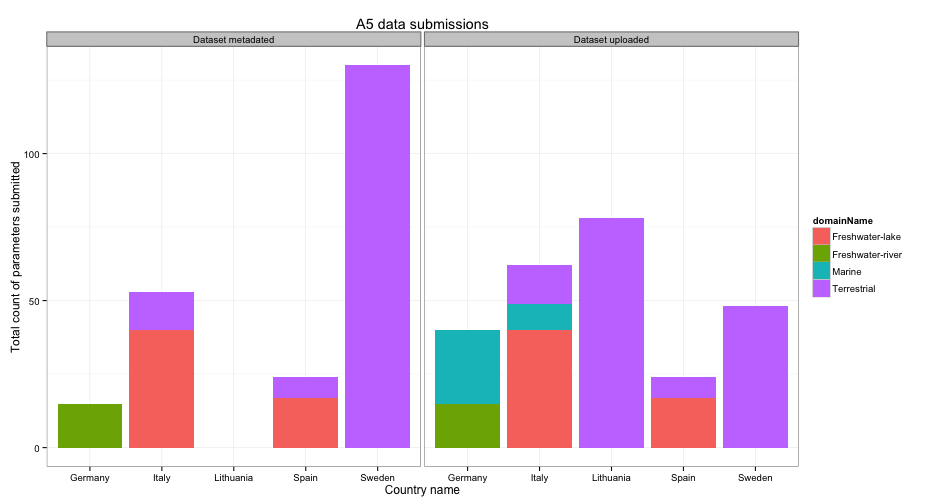
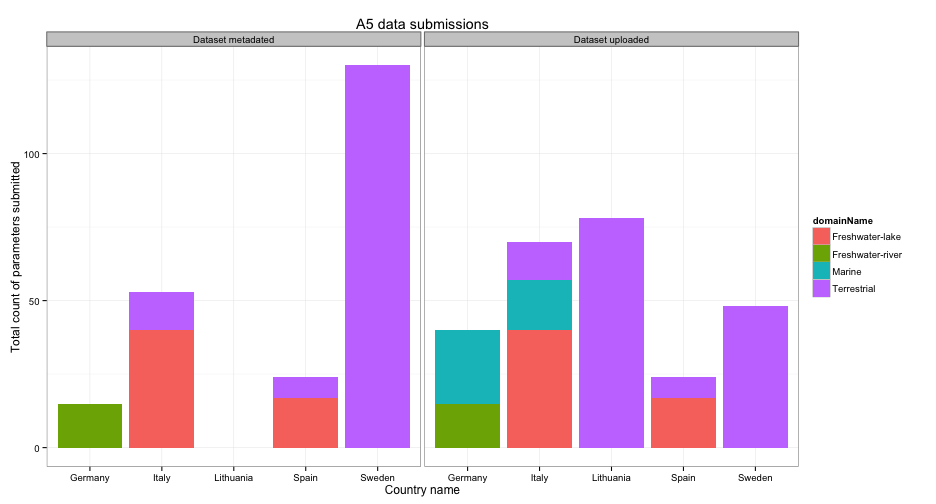
publishing deck

Changed region(s): [[0.5267, 0.4762, 0.6197, 0.625]]

diff --git a/index.html b/index.html
@@ -58,13 +58,13 @@
 
 <!-- html table generated in R 2.15.3 by xtable 1.7-0 package -->
 
-<!-- Mon Mar 11 11:10:07 2013 -->
+<!-- Mon Mar 11 13:49:17 2013 -->
 
 <TABLE border=1>
 <TR> <TH>  </TH> <TH> No. uploaded </TH> <TH> No. metadated </TH> <TH> Total no. </TH> <TH> Upload ratio </TH> <TH> Metadata ratio </TH>  </TR>
-  <TR> <TD align="right"> Year2012 </TD> <TD align="right"> 176 </TD> <TD align="right"> 174 </TD> <TD align="right"> 2025 </TD> <TD align="right"> 0.09 </TD> <TD align="right"> 0.09 </TD> </TR>
+  <TR> <TD align="right"> Year2012 </TD> <TD align="right"> 184 </TD> <TD align="right"> 174 </TD> <TD align="right"> 2025 </TD> <TD align="right"> 0.09 </TD> <TD align="right"> 0.09 </TD> </TR>
   <TR> <TD align="right"> Year2011 </TD> <TD align="right">  76 </TD> <TD align="right">  48 </TD> <TD align="right"> 265 </TD> <TD align="right"> 0.29 </TD> <TD align="right"> 0.18 </TD> </TR>
-  <TR> <TD align="right"> Sum </TD> <TD align="right"> 252 </TD> <TD align="right"> 222 </TD> <TD align="right"> 2290 </TD> <TD align="right"> 0.11 </TD> <TD align="right"> 0.10 </TD> </TR>
+  <TR> <TD align="right"> Sum </TD> <TD align="right"> 260 </TD> <TD align="right"> 222 </TD> <TD align="right"> 2290 </TD> <TD align="right"> 0.11 </TD> <TD align="right"> 0.10 </TD> </TR>
    </TABLE>
 
   </article>

diff --git a/index.md b/index.md
@@ -33,12 +33,12 @@ github:
 
 Parameters uploaded and metadated:
 <!-- html table generated in R 2.15.3 by xtable 1.7-0 package -->
-<!-- Mon Mar 11 11:10:07 2013 -->
+<!-- Mon Mar 11 13:49:17 2013 -->
 <TABLE border=1>
 <TR> <TH>  </TH> <TH> No. uploaded </TH> <TH> No. metadated </TH> <TH> Total no. </TH> <TH> Upload ratio </TH> <TH> Metadata ratio </TH>  </TR>
-  <TR> <TD align="right"> Year2012 </TD> <TD align="right"> 176 </TD> <TD align="right"> 174 </TD> <TD align="right"> 2025 </TD> <TD align="right"> 0.09 </TD> <TD align="right"> 0.09 </TD> </TR>
+  <TR> <TD align="right"> Year2012 </TD> <TD align="right"> 184 </TD> <TD align="right"> 174 </TD> <TD align="right"> 2025 </TD> <TD align="right"> 0.09 </TD> <TD align="right"> 0.09 </TD> </TR>
   <TR> <TD align="right"> Year2011 </TD> <TD align="right">  76 </TD> <TD align="right">  48 </TD> <TD align="right"> 265 </TD> <TD align="right"> 0.29 </TD> <TD align="right"> 0.18 </TD> </TR>
-  <TR> <TD align="right"> Sum </TD> <TD align="right"> 252 </TD> <TD align="right"> 222 </TD> <TD align="right"> 2290 </TD> <TD align="right"> 0.11 </TD> <TD align="right"> 0.10 </TD> </TR>
+  <TR> <TD align="right"> Sum </TD> <TD align="right"> 260 </TD> <TD align="right"> 222 </TD> <TD align="right"> 2290 </TD> <TD align="right"> 0.11 </TD> <TD align="right"> 0.10 </TD> </TR>
    </TABLE>
 
 
